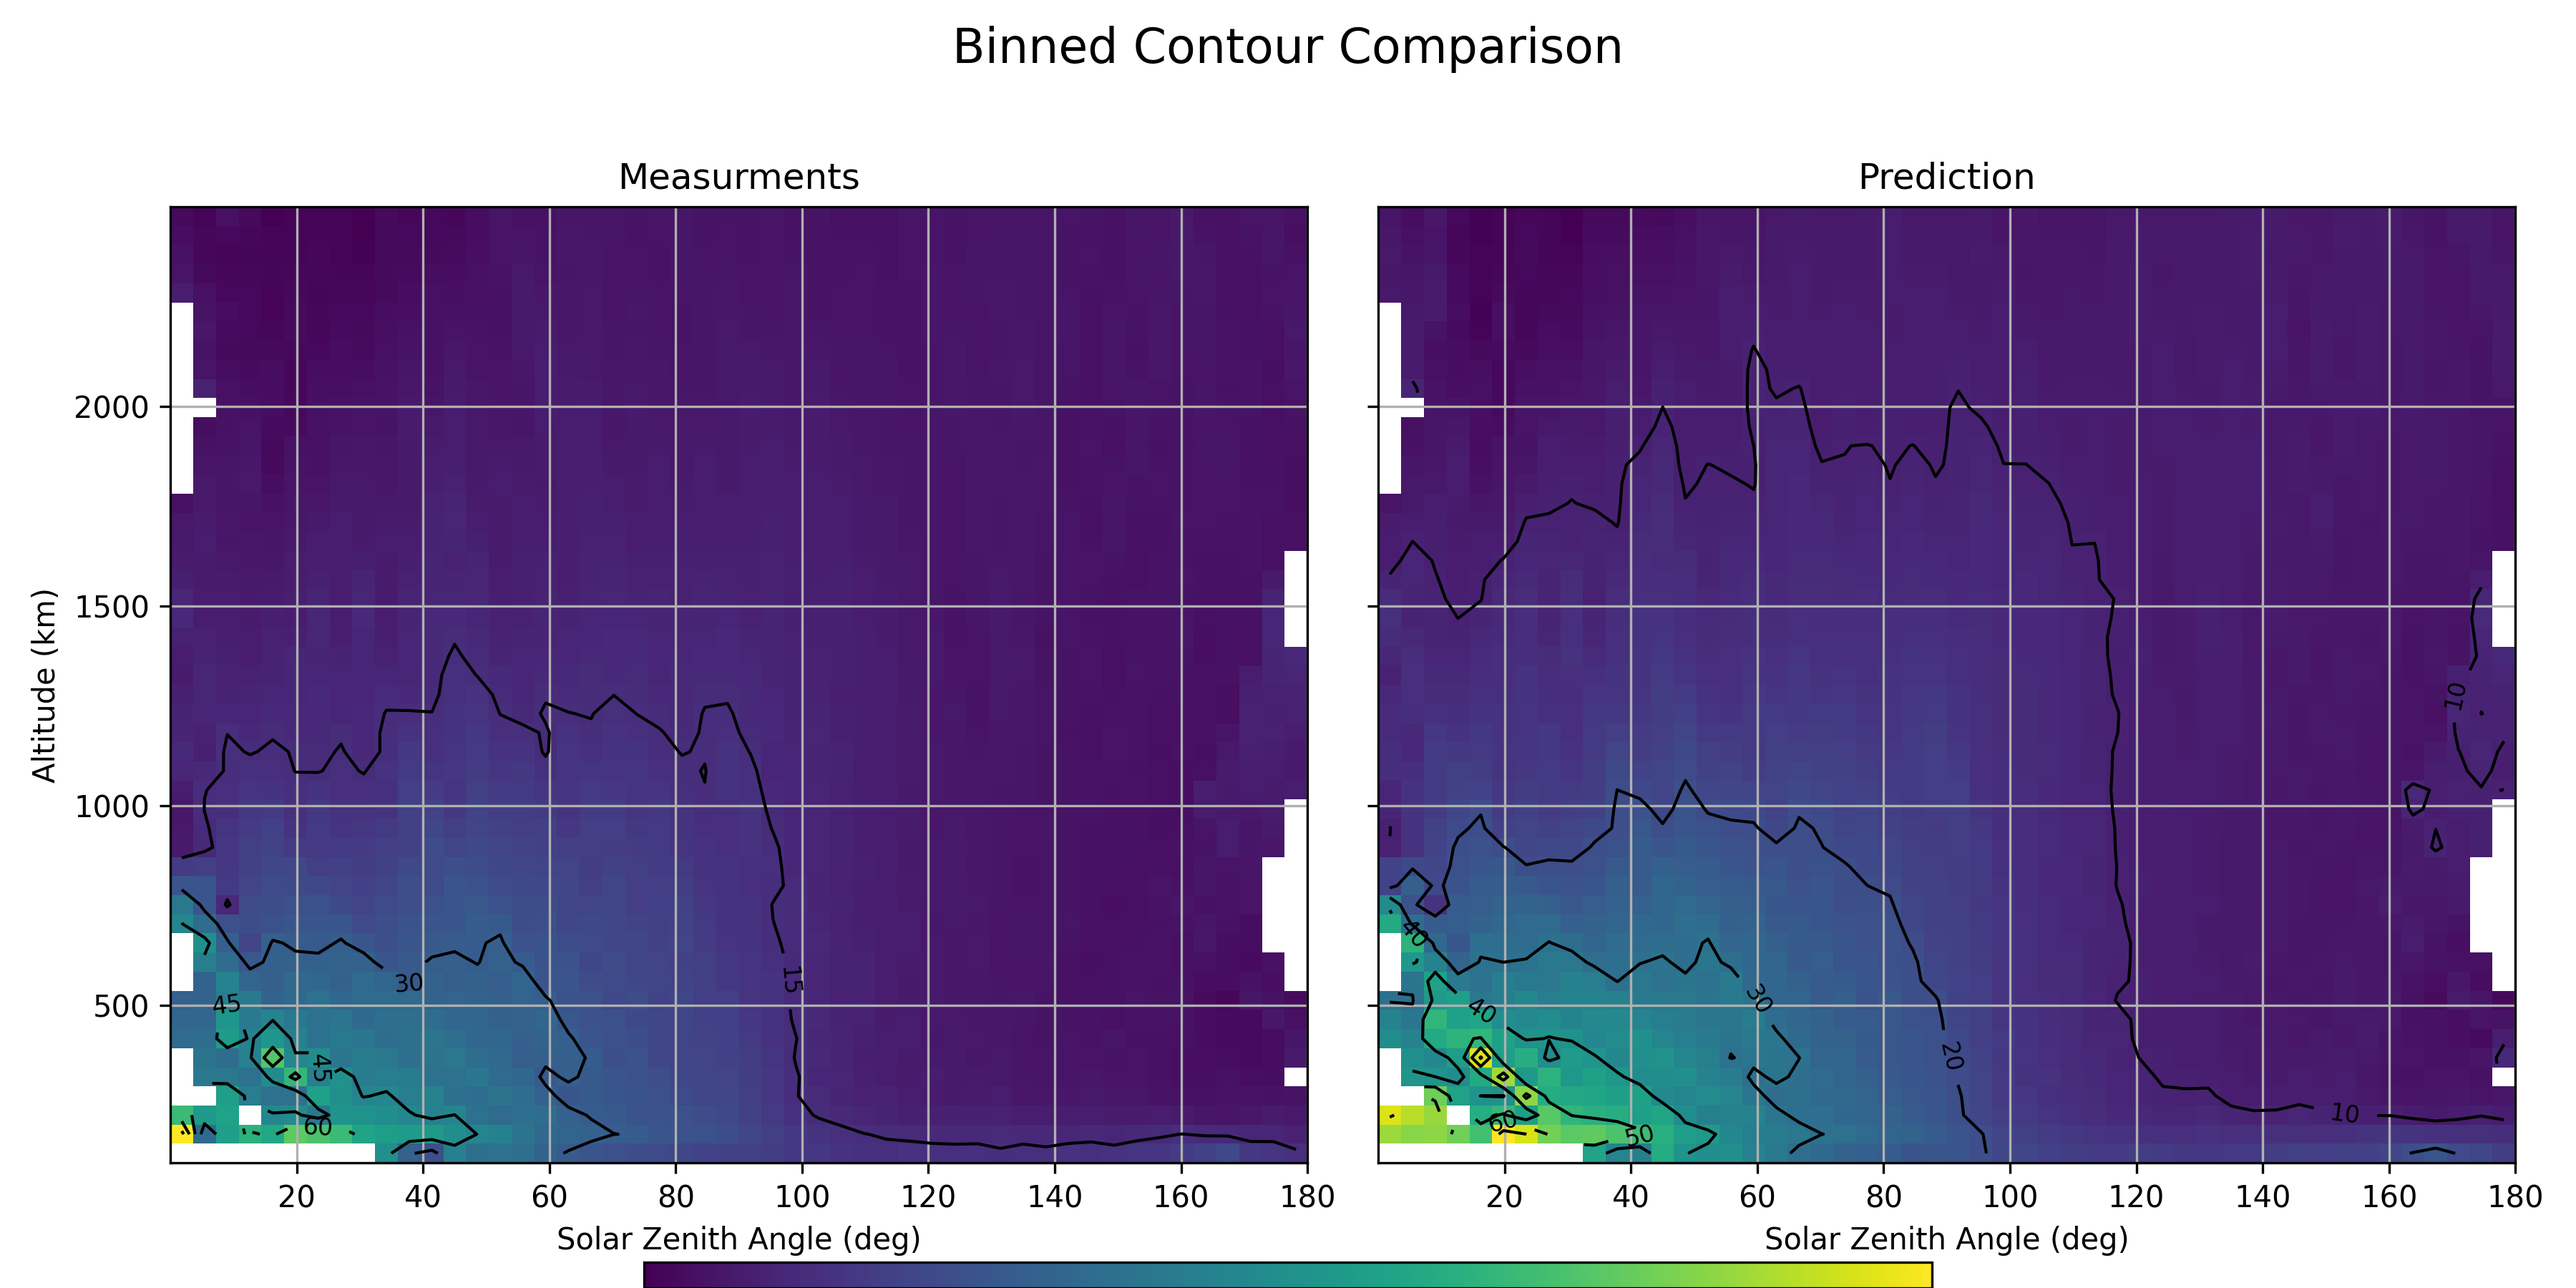
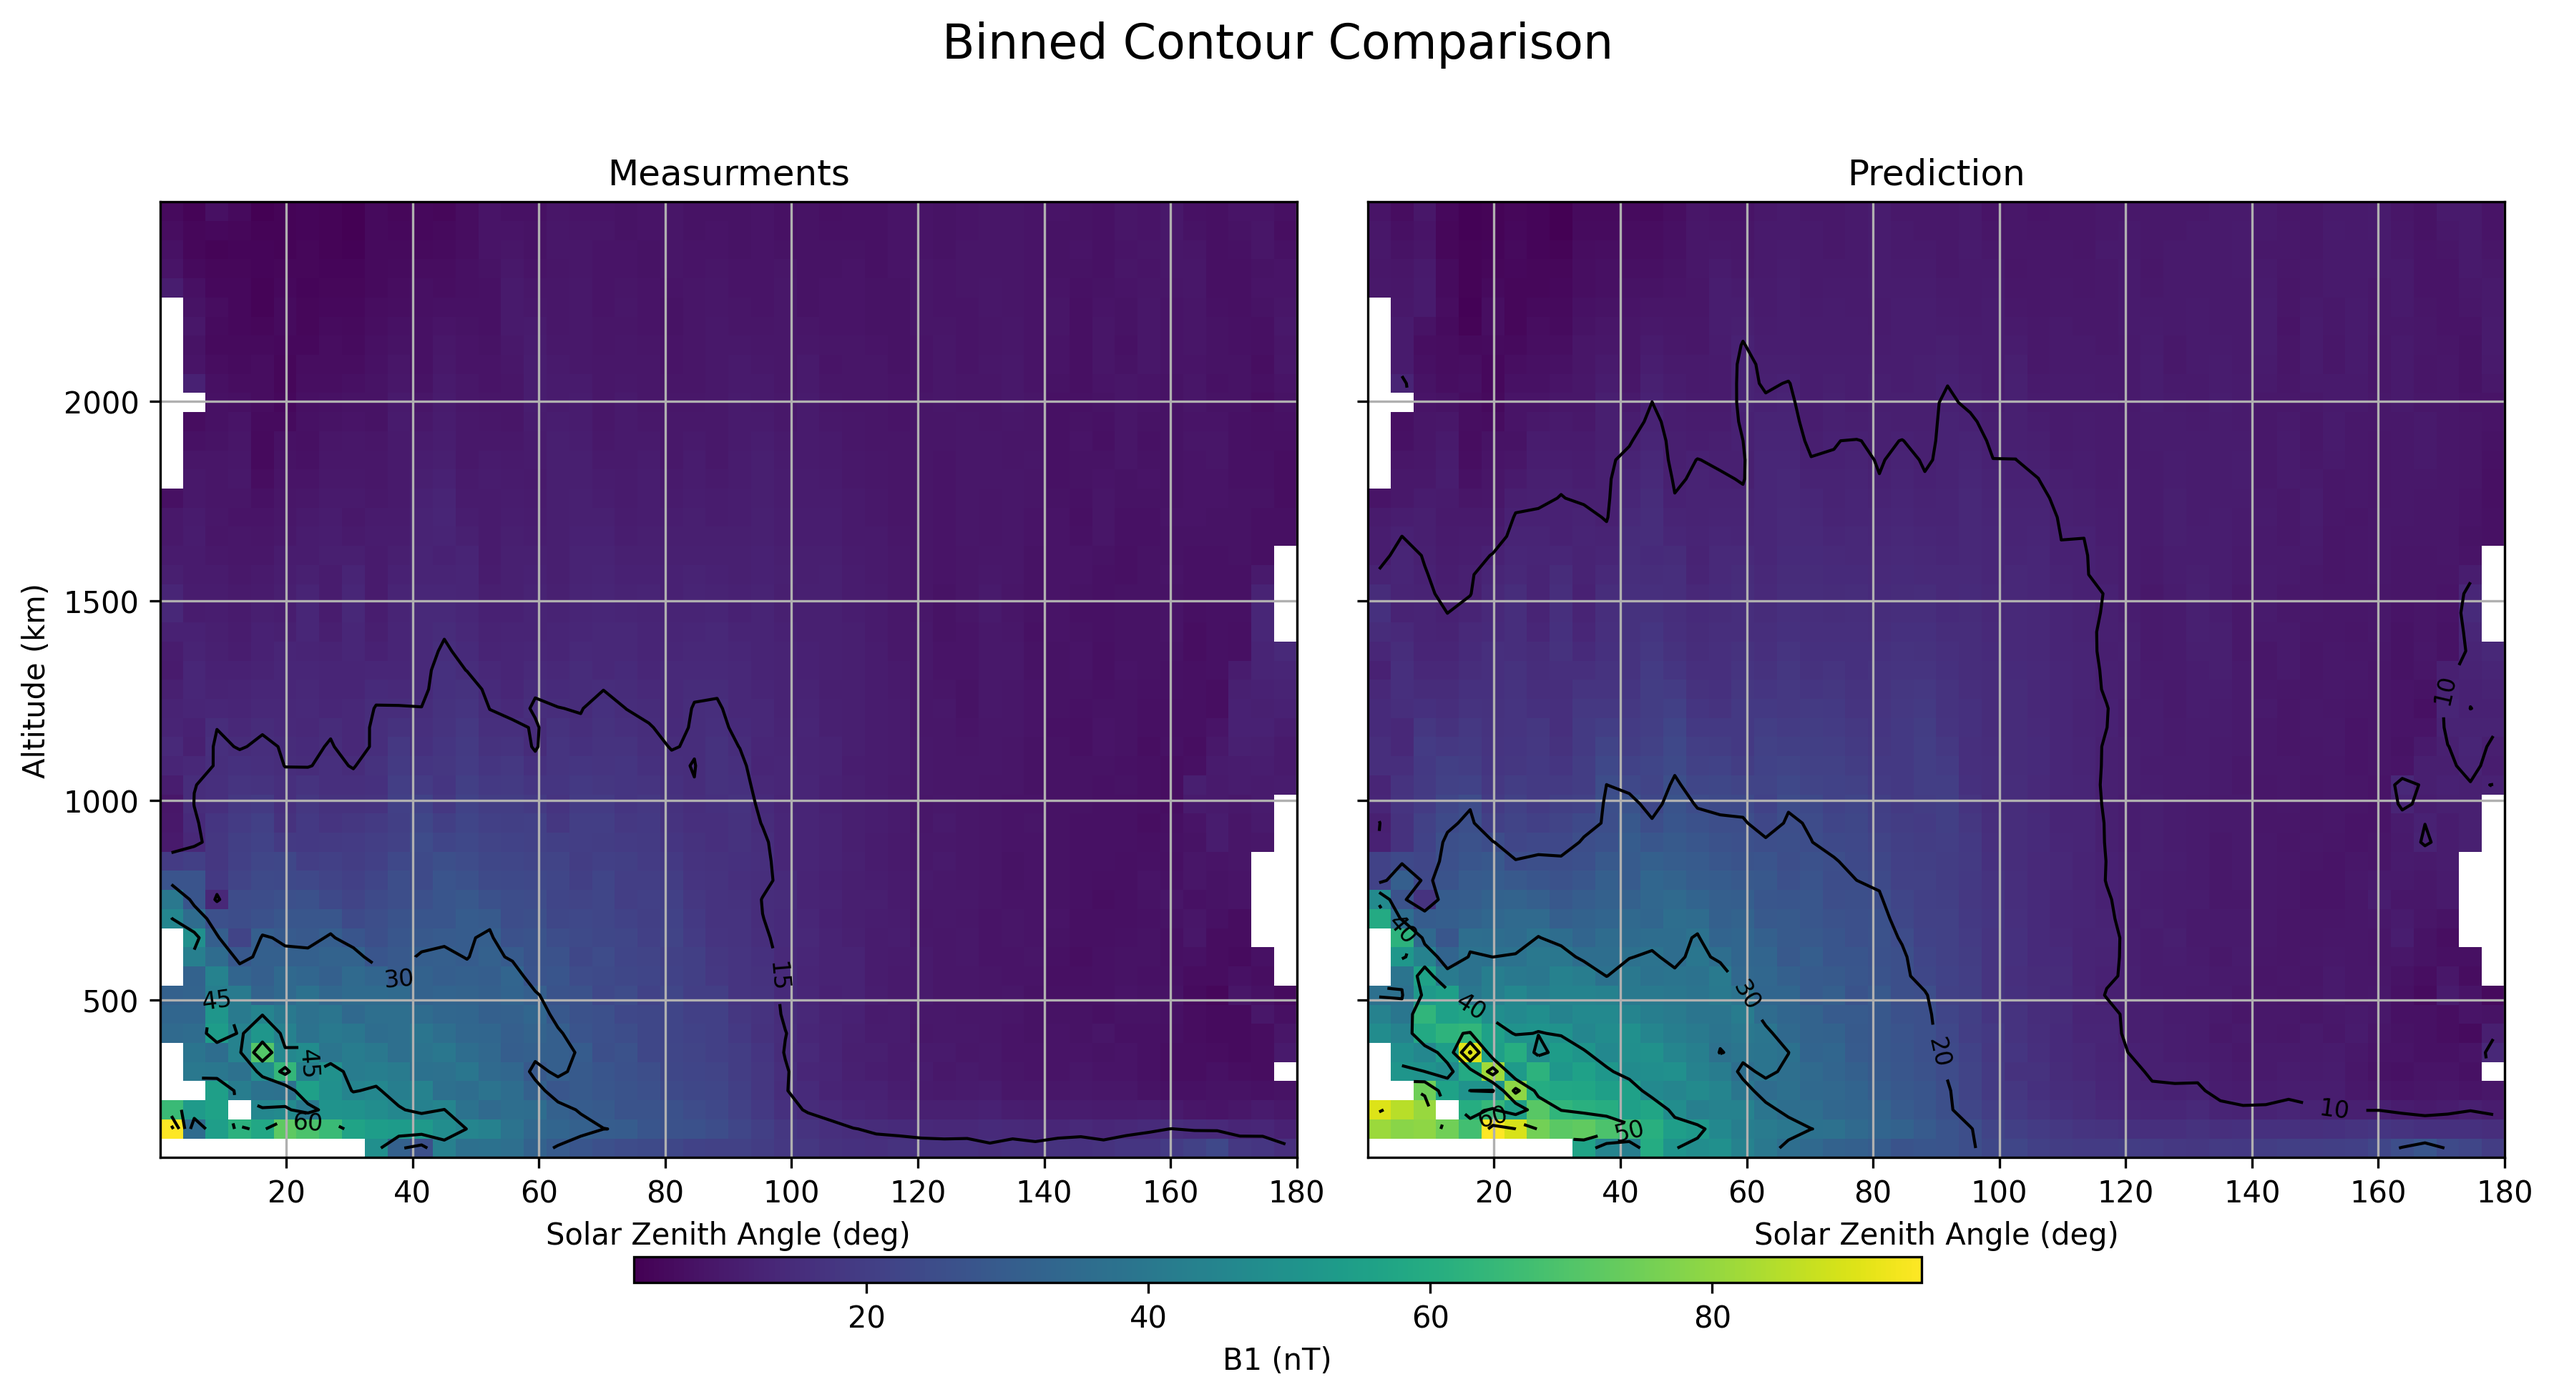
update the saved figure

diff --git a/funs.py b/funs.py
@@ -274,7 +274,7 @@ def plot_dual_binned_prediction_contour(
     cbar = fig.colorbar(pcm_list[0], cax=cbar_ax, orientation='horizontal')
     cbar.set_label("B1 (nT)")
     plt.tight_layout(rect=[0, 0, 1, 0.96])  # Leave space for suptitle
-    plt.savefig(figname, dpi=300)
+    plt.savefig(figname, dpi=300, bbox_inches='tight')
     plt.show()
 
 
@@ -340,6 +340,6 @@ def plot_lat_lon_B1_dualpanel(
     cbar_ax = fig.add_axes([0.25, 0.08, 0.5, 0.02])
     cbar = fig.colorbar(pcm, cax=cbar_ax, orientation='horizontal')
     cbar.set_label("B1 Value")
-    plt.savefig(figname, dpi=300)
+    plt.savefig(figname, dpi=300, bbox_inches='tight')
 
     plt.show()
